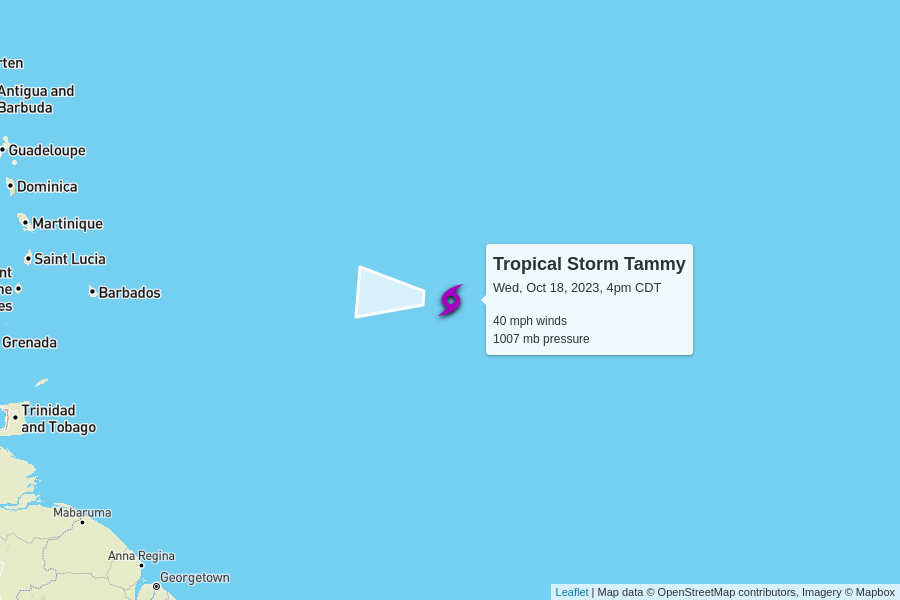
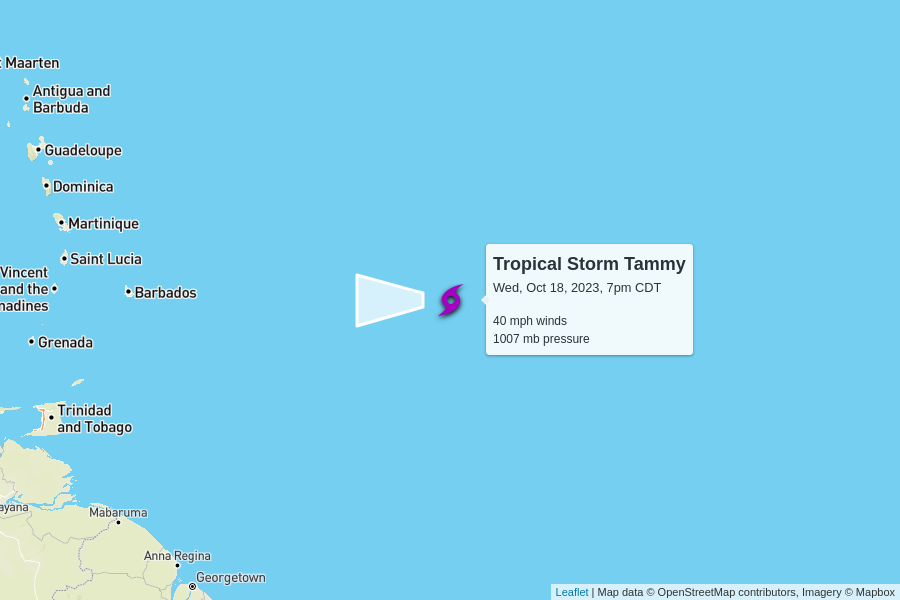
automatic update

diff --git a/docs/index.html b/docs/index.html
@@ -102,7 +102,7 @@
         <td colspan="6" class="storm category-0" >
           <h2>
             Tropical Storm Tammy
-            <p class="updated">last updated <span data-time>2023-10-18T21:00:00.000Z</span></p>
+            <p class="updated">last updated <span data-time>2023-10-19T00:00:00.000Z</span></p>
           </h2>
         </td>
       </tr>
@@ -117,12 +117,12 @@
       </tr>
       <tr>
         <td class="spacer"></td>
-        <td>40 mph</td>
-        <td>1007 mb</td>
+        <td>40 mph<br>0 mph since last update</td>
+        <td>1007 mb<br>0 mb since last update</td>
         <td>
           23 mph to the west
           <br/>
-          <span style="display: inline-block; font-size: 1.5em; transform: rotate(275deg);">↑</span>
+          <span style="display: inline-block; font-size: 1.5em; transform: rotate(270deg);">↑</span>
         </td>
         <td><a href="https://raw.githubusercontent.com/mgwalker/atlantic-hurricanes/main/data/csv/AL202023.csv">AL202023.csv</a></td>
         <td><a href="https://www.nhc.noaa.gov/archive/2023/TAMMY.shtml?">NHC advisories</a></td>
@@ -253,28 +253,6 @@
       
 
       <tr>
-        <td colspan="6" class="storm " style="cursor:pointer;" onClick="toggle('AL132023')">
-          <h2>🏁 Lee
-          </h2>
-        </td>
-      </tr>
-      
-      <tr id="storm_AL132023" style="display:none;">
-        <td class="spacer">
-        <td colspan="5">
-          <figure>
-            <img src="AL132023.png">
-            <figcaption>
-              Map data &copy; <a href="https://www.openstreetmap.org/copyright">OpenStreetMap</a> contributors,
-              Imagery &copy; <a href="https://www.mapbox.com/">Mapbox</a> |
-              <a href="https://www.mapbox.com/map-feedback/" target="_blank">Improve this map</a>
-            </figcaption>
-          </figure>
-        </td>
-      </tr>
-      
-
-      <tr>
         <td colspan="6" class="storm " style="cursor:pointer;" onClick="toggle('AL142023')">
           <h2>🏁 Margot
           </h2>
@@ -286,6 +264,28 @@
         <td colspan="5">
           <figure>
             <img src="AL142023.png">
+            <figcaption>
+              Map data &copy; <a href="https://www.openstreetmap.org/copyright">OpenStreetMap</a> contributors,
+              Imagery &copy; <a href="https://www.mapbox.com/">Mapbox</a> |
+              <a href="https://www.mapbox.com/map-feedback/" target="_blank">Improve this map</a>
+            </figcaption>
+          </figure>
+        </td>
+      </tr>
+      
+
+      <tr>
+        <td colspan="6" class="storm " style="cursor:pointer;" onClick="toggle('AL132023')">
+          <h2>🏁 Lee
+          </h2>
+        </td>
+      </tr>
+      
+      <tr id="storm_AL132023" style="display:none;">
+        <td class="spacer">
+        <td colspan="5">
+          <figure>
+            <img src="AL132023.png">
             <figcaption>
               Map data &copy; <a href="https://www.openstreetmap.org/copyright">OpenStreetMap</a> contributors,
               Imagery &copy; <a href="https://www.mapbox.com/">Mapbox</a> |
